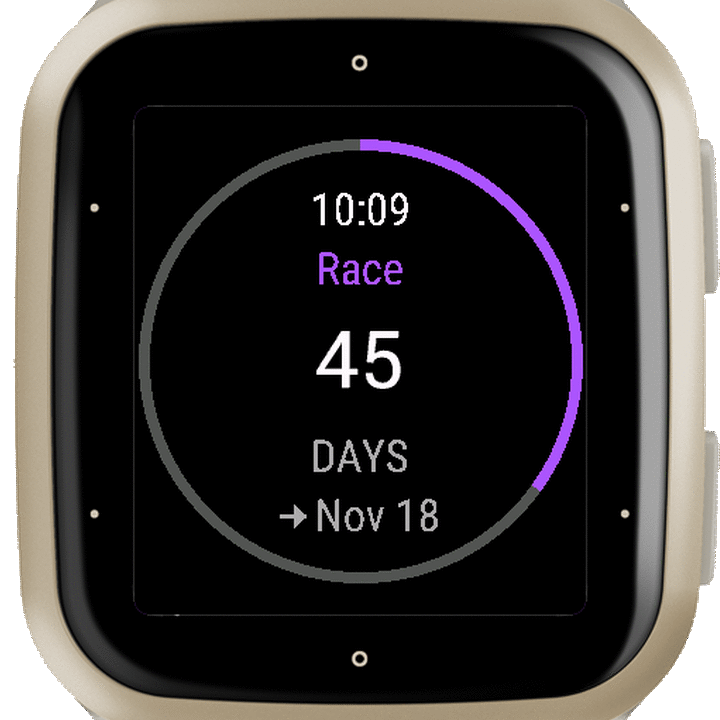
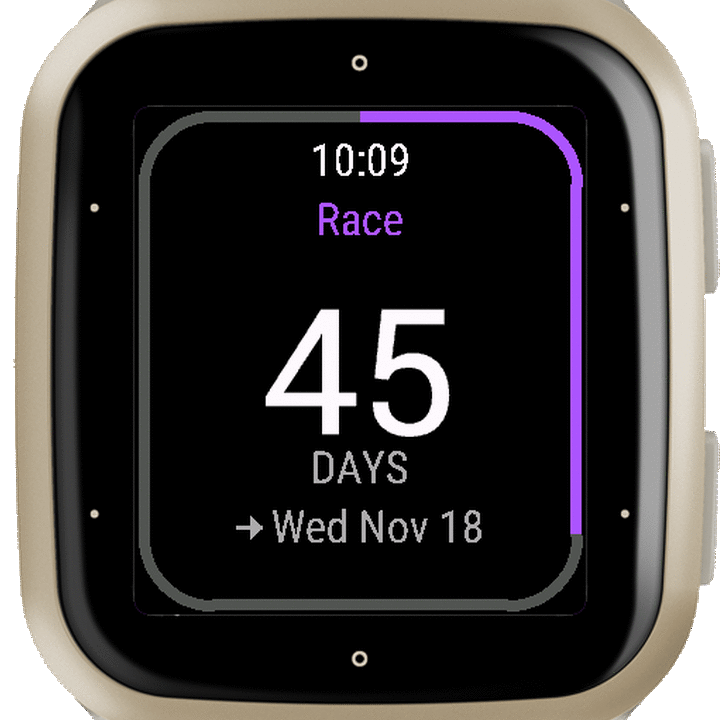
listing(HeroFace, DaysToGo): retake changed shots for the next build (13.38)
HeroFace Pro 2-your-bars and hero: the day ring no longer counts the move
bar. Days To Go Pro and Free 4-rectangle: the Venu Sq 2 square design
(ADR-019). Every other shot recaptured and compared pixel-identical, kept.
Simulator only; sets await the owner's look approval.

Claude-Session: https://claude.ai/code/session_01VBnXC1zGyaFSzHFynsMi4H

diff --git a/HeroFace/listing/screenshots.md b/HeroFace/listing/screenshots.md
@@ -2,6 +2,8 @@
 
 **Upload `screens-framed/` (since 2026-10-05, owner: every image in a watch, chassis and part of the strap, a different watch per image, as HeroSet).** Made by `docker/frame_listing.sh` from `src/frames.txt` (which watch frames which image; the device must be the one `tools/listing_shots.sh` captured on); `screens/` keeps the raw native captures, which the hero image and the framing read. Re-run after any recapture: `CIQ_IMAGE=verden-ciq-shots:9.2.0 docker/run.sh HeroFace bash /ciq-docker/frame_listing.sh listing`.
 
+**Recapture 2026-10-08 (ROADMAP 13.38), for the next build; awaits the owner's look approval.** Every picture was taken again from the current Pro build with the same scenes and watches and compared pixel by pixel with the committed one (`compare -metric AE`). Only **`2-your-bars`** changed: the day ring no longer counts the move bar (owner, 2026-10-06, ADR-005), so with MOVE, steps and intensity minutes on the bars the ring now shows the steps and intensity minutes only and is shorter; the seconds read 28 instead of 32 (clock timing). Its framed file and the hero (whose centre watch it is) were re-made. `1-everyday`, `3-goals-met`, `4-heroset` and the Instinct frame came out identical (0 pixels differ) and are kept as they were: the streak-over-temperature rule does not change them (1-everyday has no streak; HeroSet mode fits both). Simulator only.
+
 Status 2026-10-04: **a full set rendered from the current Pro build (`monkey.jungle`), simulator only.** **Text uploaded with Pro 1.1.0 on 2026-10-04 (in Garmin review); whether these images replaced the live ones is ROADMAP 10.5.** Everything the store form takes is in this folder: five screen images in `screens/`, `cover-500.png`, `hero-1440x720.png`, `icon-24-128.png`, `icon-64-128.png`. The superseded set is in git history. The Free twin's set is in [`../listing-free/screenshots.md`](../listing-free/screenshots.md); the two are made the same way.
 
 ## The five screen images (upload order)
@@ -11,9 +13,9 @@ All from the Pro build, native simulator pixels, clock 2026-10-04 10:09. No pric
 | # | File | Device | What it shows (what Pro has) |
 |---|---|---|---|
 | 1 | `screens/1-everyday.png` | `fr965`, 454 px | Everyday: 8420 steps, 18 intensity minutes, 7 floors, ring, blue accent, the temperature under the time |
-| 2 | `screens/2-your-bars.png` | `fr965`, 454 px | **Pro's own:** the bars set to the move bar, steps and intensity minutes (each bar fills), seconds beside the time, the pale magenta accent |
-| 3 | `screens/3-goals-met.png` | `fr965`, 454 px | All three goals met: green bars and ring, check marks, gold streak line |
-| 4 | `screens/4-heroset.png` | `fr965`, 454 px | HeroSet mode: push-ups, sit-ups, squats, rank and streak, gold ring (the HeroSet value is canned, see below) |
+| 2 | `screens/2-your-bars.png` | `fenix8pro47mm`, 454 px | **Pro's own:** the bars set to the move bar, steps and intensity minutes (each bar fills), seconds beside the time, the pale magenta accent; the ring counts steps and intensity minutes, not the move bar (retaken 2026-10-08) |
+| 3 | `screens/3-goals-met.png` | `fr970`, 454 px | All three goals met: green bars and ring, check marks, gold streak line |
+| 4 | `screens/4-heroset.png` | `venu3`, 454 px | HeroSet mode: push-ups, sit-ups, squats, rank and streak, gold ring (the HeroSet value is canned, see below) |
 | 5 | `screens/5-instinct-e40.png` | **`instincte40mm`, 166 px native, shown x3 (the Instinct family)** | Black and white, the ring is a gauge in the round window (closed here), the time and date left of it, streak, three reversed labels for finished goals |
 
 The Instinct has no Accent setting, so there is nothing to choose; the goals-met state was picked because it is the best-looking frame (the finished-goal pills and the streak line, drawn icons in reversed pills since 2026-10-05, 13.11). **Pro is sold for the Instinct E and Instinct 3 watches, not the Instinct 2 family** (Garmin's paid-app product list, `../../reports/Garmin policies and design guidelines.md`), so the Pro Instinct picture is an Instinct E 40 mm. `screens/5-instinct-e40.png` (the one to upload, as in the Days To Go listing) is the simulator's own 166 px capture (`tools/listing_shots.sh` writes it to `screens/native/5-instincte40mm-166.png`; not kept in git) enlarged x3 with nearest-neighbour (498 px, two colours, no smoothing) because the store shows screenshots larger than the display: `src/instinct-up.html`, rendered by the same Chrome command with `--window-size=498,498` and `--screenshot="$PWD/screens/5-instinct-e40.png"`. `instinct3solar45mm` did not save in the scripted run (it opens on its glance), so it was not used.
@@ -28,7 +30,7 @@ docker/capture.sh HeroFace tools/listing_shots.sh pro 2-your-bars.png   # one pi
 # the other four the same way: 1-everyday.png  3-goals-met.png  4-heroset.png  5-instincte40mm-166.png (the native Instinct frame, saved in screens/native/; then render src/instinct-up.html with Chrome to make the x3 upload file)
 ```
 
-**Take each picture in its own run.** In the Free twin's long run the simulator kept the Accent value stored by the first scene (the Cyan and Magenta frames came out blue); Pro's 2026-10-04 set was taken in one longer run in a different order (HeroSet scenes first) where it did not happen, and the trimmed script's order (1-everyday, then 2-your-bars) was **not** re-proven in one run. One picture per run is the safe, documented way, and the extra arguments make that cheap.
+**Take each picture in its own run.** In the Free twin's long run the simulator kept the Accent value stored by the first scene (the Cyan and Magenta frames came out blue); Pro's 2026-10-04 set was taken in one longer run in a different order (HeroSet scenes first) where it did not happen, and the trimmed script's order (1-everyday, then 2-your-bars) was **not** re-proven in one run (it was on 2026-10-08: one full `pro` run, the stored-settings delete in `scene()`, every picture checked). One picture per run is the safe, documented way, and the extra arguments make that cheap.
 
 - The five pictures came out of one full run that also took a few extra frames (a second custom-bars variant, Instinct 2 and Instinct E 45 mm, a goals-met HeroSet frame); the script was trimmed to the chosen five afterwards and the unused frames were discarded. The scenes are unchanged. Extra arguments after `pro` name the files to re-take alone (`... pro 3-goals-met.png`); a "NOT SAVED" line means repeat that one. In the Free twin's long run the simulator kept a stored Accent value, so Free's accent frames are taken one per run; look at every picture.
 - The face is built in a **private copy** of the project, so `source/` and the repo's `properties.xml` are never touched. The clock is the simulator's own (`faketime`), the activity data is typed into Simulation > Activity Monitoring, and each file is the simulator's File > Save Screen Capture, so the size is the device's own.
@@ -73,12 +75,12 @@ stat -f '%z %N' screens/*.png cover-500.png hero-1440x720.png icon-*.png        
 | File | Pixels | Size |
 |---|---|---|
 | `screens/1-everyday.png` | 454x454 | 16.9 KB |
-| `screens/2-your-bars.png` | 454x454 | 18.2 KB |
+| `screens/2-your-bars.png` | 454x454 | 17.0 KB (2026-10-08; framed 128 KB) |
 | `screens/3-goals-met.png` | 454x454 | 16.0 KB |
 | `screens/4-heroset.png` | 454x454 | 19.3 KB |
 | `screens/5-instinct-e40.png` | 498x498 (x3 of the 166 px native) | 3.5 KB |
 | `cover-500.png` | 500x500 | 15.7 KB |
-| `hero-1440x720.png` | 1440x720 | 280 KB |
+| `hero-1440x720.png` | 1440x720 | 275 KB (re-rendered 2026-10-08) |
 | `icon-24-128.png` | 128x128 | 3.6 KB |
 | `icon-64-128.png` | 128x128 | 1.4 KB |
 

diff --git a/DaysToGo/listing/screenshots.md b/DaysToGo/listing/screenshots.md
@@ -2,6 +2,9 @@
 
 **Upload `screens-framed/` (since 2026-10-05, owner: every image in a watch, chassis and part of the strap, a different watch per image, as HeroSet).** Made by `docker/frame_listing.sh` from `src/frames.txt` (which watch frames which image; the device must be the one `tools/listing_shots.sh` captured on); `screens/` keeps the raw native captures, which the hero image and the framing read. Re-run after any recapture: `CIQ_IMAGE=verden-ciq-shots:9.2.0 docker/run.sh DaysToGo bash /ciq-docker/frame_listing.sh listing`.
 
+**Recapture 2026-10-08 (ROADMAP 13.38), for the next build; awaits the owner's look approval.** Every picture was taken again from the current build with the same scenes and watches and compared pixel by pixel with the committed one (`compare -metric AE`). Only **`4-rectangle`** changed: the Venu Sq 2 now draws the square design (ADR-019, rectangles get a square design; look approved by the owner 2026-10-08): a rounded-rectangle track along the glass with the accent stretch from the top centre, the count larger in the inner box. Its framed file was re-made. The round shots and the Instinct frame came out identical (0 pixels differ; `1-to-the-minute` differed only by one clock minute (the committed 10:10 / 8h 05m against the new 10:09 / 8h 06m: run timing), so the committed one is kept) and are kept, so the hero (round screens only) is unchanged. Simulator only.
+
+
 Status: 2026-10-04. The whole set was re-rendered today from the **current Pro build** (after the on-watch date picker, the rectangle layout and the bottom-line changes of the same day). **Text uploaded with Pro 1.1.0 on 2026-10-04 (in Garmin review); whether these images replaced the live ones is ROADMAP 10.5.** Superseded files are in git history. Simulator only, no wrist photo: simulator passing is not device proof, and the clock, battery and steps in the pictures are canned, never a claim about real readings.
 
 ## The set (upload order)
@@ -11,7 +14,7 @@ Status: 2026-10-04. The whole set was re-rendered today from the **current Pro b
 | `screens/1-to-the-minute.png` | 454 px | fr965 | "Race" at 20:15 in UTC+2 (Hour 20:00, Minute 15, zone UTC+2) on a UTC clock at 10:09: 8h 06m, battery on the date row, mint (2026-10-04, ADR-018, replaces the 7:51 hours-battery capture) |
 | `screens/2-weeks-steps.png` | 454 px, 17 KB | fr965 | "70.3" in weeks and days, steps on the date row, sky |
 | `screens/3-other-time-zone.png` | 454 px | fr965 | "Launch" the next day at 09:30 in UTC+9 on a UTC clock at 10:09: 14h 21m, the date row reads the written date, battery, pink (2026-10-04, ADR-018, replaces the 161-days capture) |
-| `screens/4-rectangle.png` | 320x360, 4 KB | venusq2 | hours state, amber (the bottom line is not drawn on the rectangle) |
+| `screens/4-rectangle.png` | 320x360, 4 KB | venusq2 | hours state, amber, the square design (track along the glass, battery on the bottom line; retaken 2026-10-08, ADR-019) |
 | `screens/5-instinct.png` | 498 px, 3 KB | instincte40mm (**Instinct family**) | hours state, black and white, ring as a gauge in the round window (the bottom line is not drawn there) |
 
 Five is the limit chosen by the owner (2026-10-04). Pro shows only what Pro adds on top of Free's fields (Hour, Minute and Event time zone, Footer; the two new captures are "to the minute", ADR-018); the accent colours are Free's too but vary the set. The Instinct picture comes from the **Instinct E 40 mm** on purpose: Garmin's paid-app product list has no Instinct 2, 2S, 2X or Descent G1 (coordinator note, `reports/Garmin policies and design guidelines.md`), so a Pro listing must not show or name them. `screens/5-instinct.png` is the simulator's own 166 px capture (`tools/listing_shots.sh` writes it to `screens/native/5-instincte40mm-166.png`; not kept in git) enlarged x3 with nearest-neighbour (498 px, no smoothing) because the store shows screenshots larger than that display.

diff --git a/DaysToGo/listing-free/screenshots.md b/DaysToGo/listing-free/screenshots.md
@@ -2,6 +2,9 @@
 
 **Upload `screens-framed/` (since 2026-10-05, owner: every image in a watch, chassis and part of the strap, a different watch per image, as HeroSet).** Made by `docker/frame_listing.sh` from `src/frames.txt` (which watch frames which image; the device must be the one `tools/listing_shots.sh` captured on); `screens/` keeps the raw native captures, which the hero image and the framing read. Re-run after any recapture: `CIQ_IMAGE=verden-ciq-shots:9.2.0 docker/run.sh DaysToGo bash /ciq-docker/frame_listing.sh listing-free`.
 
+**Recapture 2026-10-08 (ROADMAP 13.38), for the next build; awaits the owner's look approval.** Every picture was taken again from the current build with the same scenes and watches and compared pixel by pixel with the committed one (`compare -metric AE`). Only **`4-rectangle`** changed: the Venu Sq 2 now draws the square design (ADR-019, rectangles get a square design; look approved by the owner 2026-10-08): a rounded-rectangle track along the glass with the accent stretch from the top centre, the count larger in the inner box. Its framed file was re-made. The round shots and the Instinct frame came out identical (0 pixels differ) and are kept, so the hero (round screens only) is unchanged. Simulator only.
+
+
 Status: 2026-10-04. The whole set was rendered today from the **current Free build** (after the on-watch date picker, the rectangle layout and the bottom-line changes of the same day). **Uploaded by the owner 2026-10-04 with this set (looks approved by the upload), in Garmin review.** Earlier versions are in git history. Simulator only, no wrist photo: simulator passing is not device proof, and the clock in the pictures is canned.
 
 ## The set (upload order)
@@ -11,7 +14,7 @@ Status: 2026-10-04. The whole set was rendered today from the **current Free bui
 | `screens/1-days-amber.png` | 454 px, 18 KB | fr965 | "Wedding", 161 DAYS, date line with the year, amber |
 | `screens/2-weeks-sky.png` | 454 px, 18 KB | fr965 | "70.3", 6 WEEKS + 3 DAYS, sky |
 | `screens/3-today-pink.png` | 454 px, 15 KB | fr965 | the day itself: TODAY, ring full, pink |
-| `screens/4-rectangle.png` | 320x360, 4 KB | venusq2 | 45 DAYS on a rectangular screen, violet |
+| `screens/4-rectangle.png` | 320x360, 4 KB | venusq2 | 45 DAYS on a rectangular screen, violet, the square design (track along the glass; retaken 2026-10-08, ADR-019) |
 | `screens/5-instinct.png` | 528 px, 3 KB | instinct2 (**Instinct family**) | 45 DAYS, black and white, ring as a gauge in the round window |
 
 Five is the limit chosen by the owner (2026-10-04). Free shows only Free's fields: Event, Name, Month/Day/Year, Unit (days or weeks), Date style, Accent; the Free build contains no Hour or Footer code path, so no bottom line or H:MM can appear (`tools/check_free_package.sh`). Accent colours vary across the set because the accent is Free's selling point; the Instinct has none (black and white). Free may use any Instinct (Garmin lists the Instinct 2 family for free apps), so the Instinct 2 is used; `screens/5-instinct.png` is the simulator's own 176 px capture (`tools/listing_shots.sh` writes it to `screens/native/5-instinct2-176.png`; not kept in git) enlarged x3 with nearest-neighbour (528 px, no smoothing) because the store shows screenshots larger than that display.
